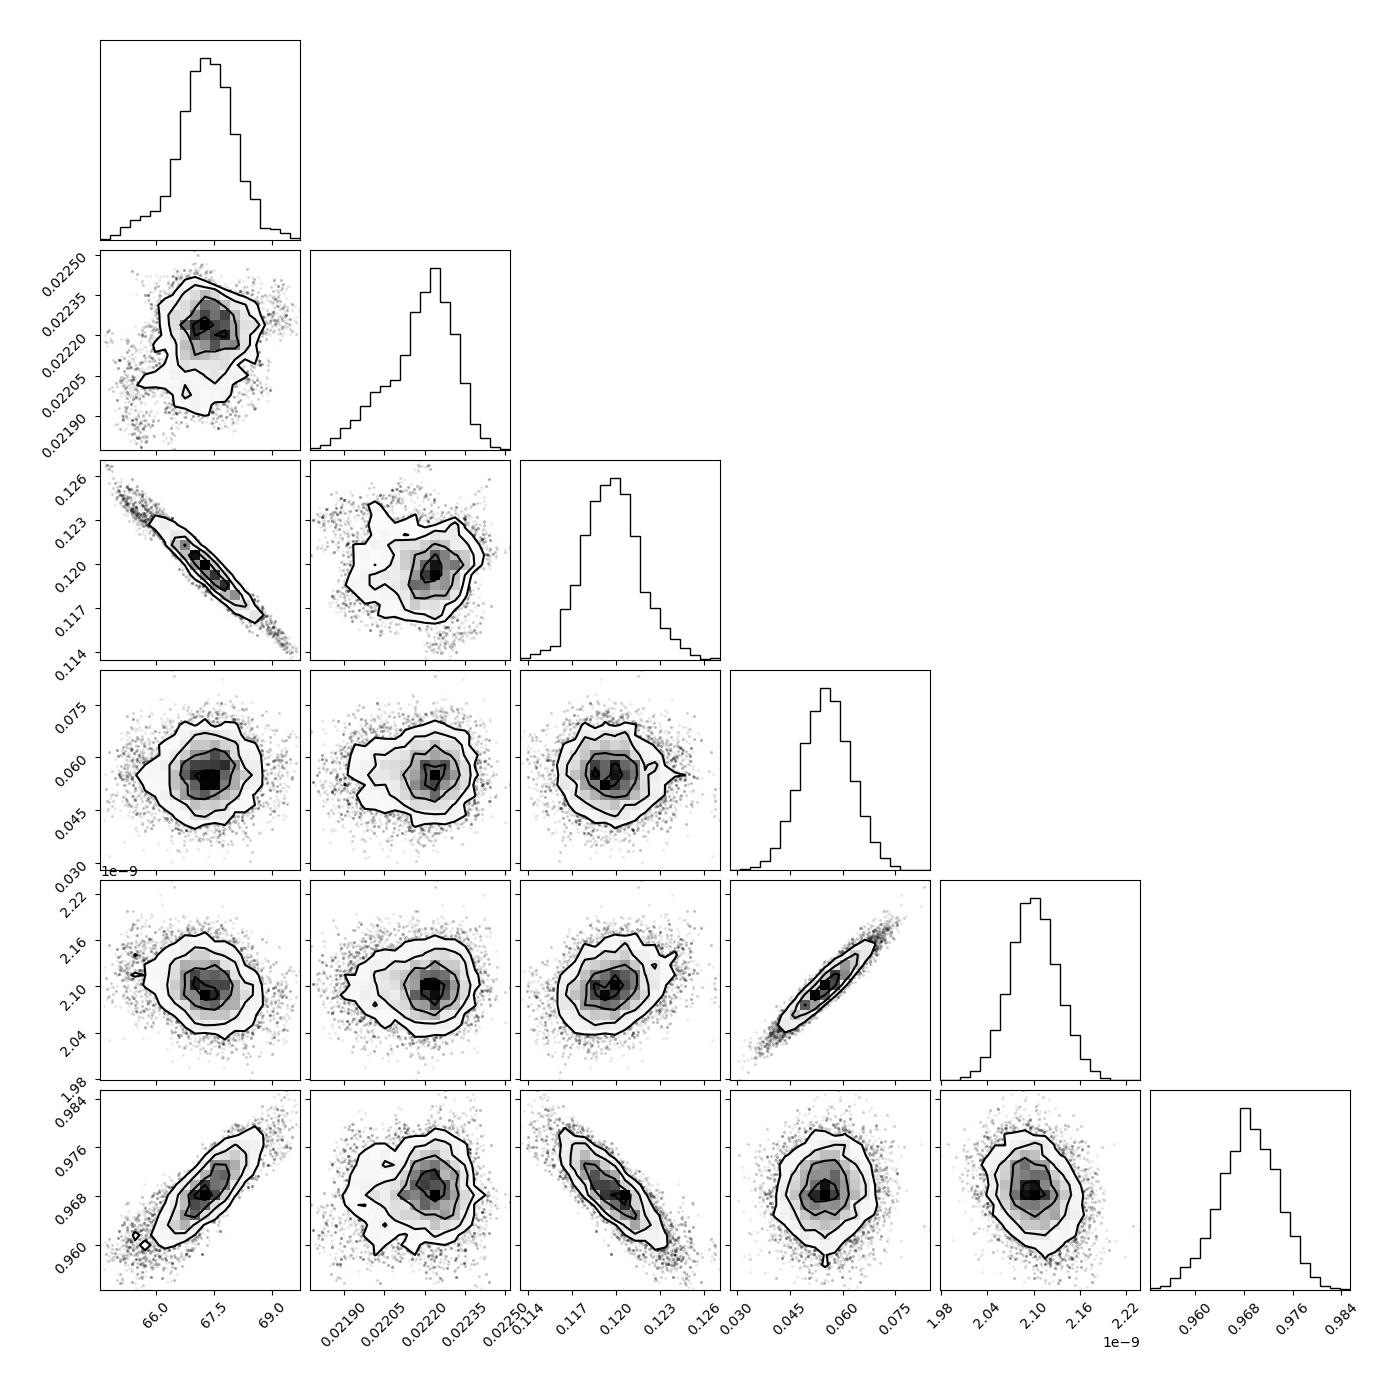
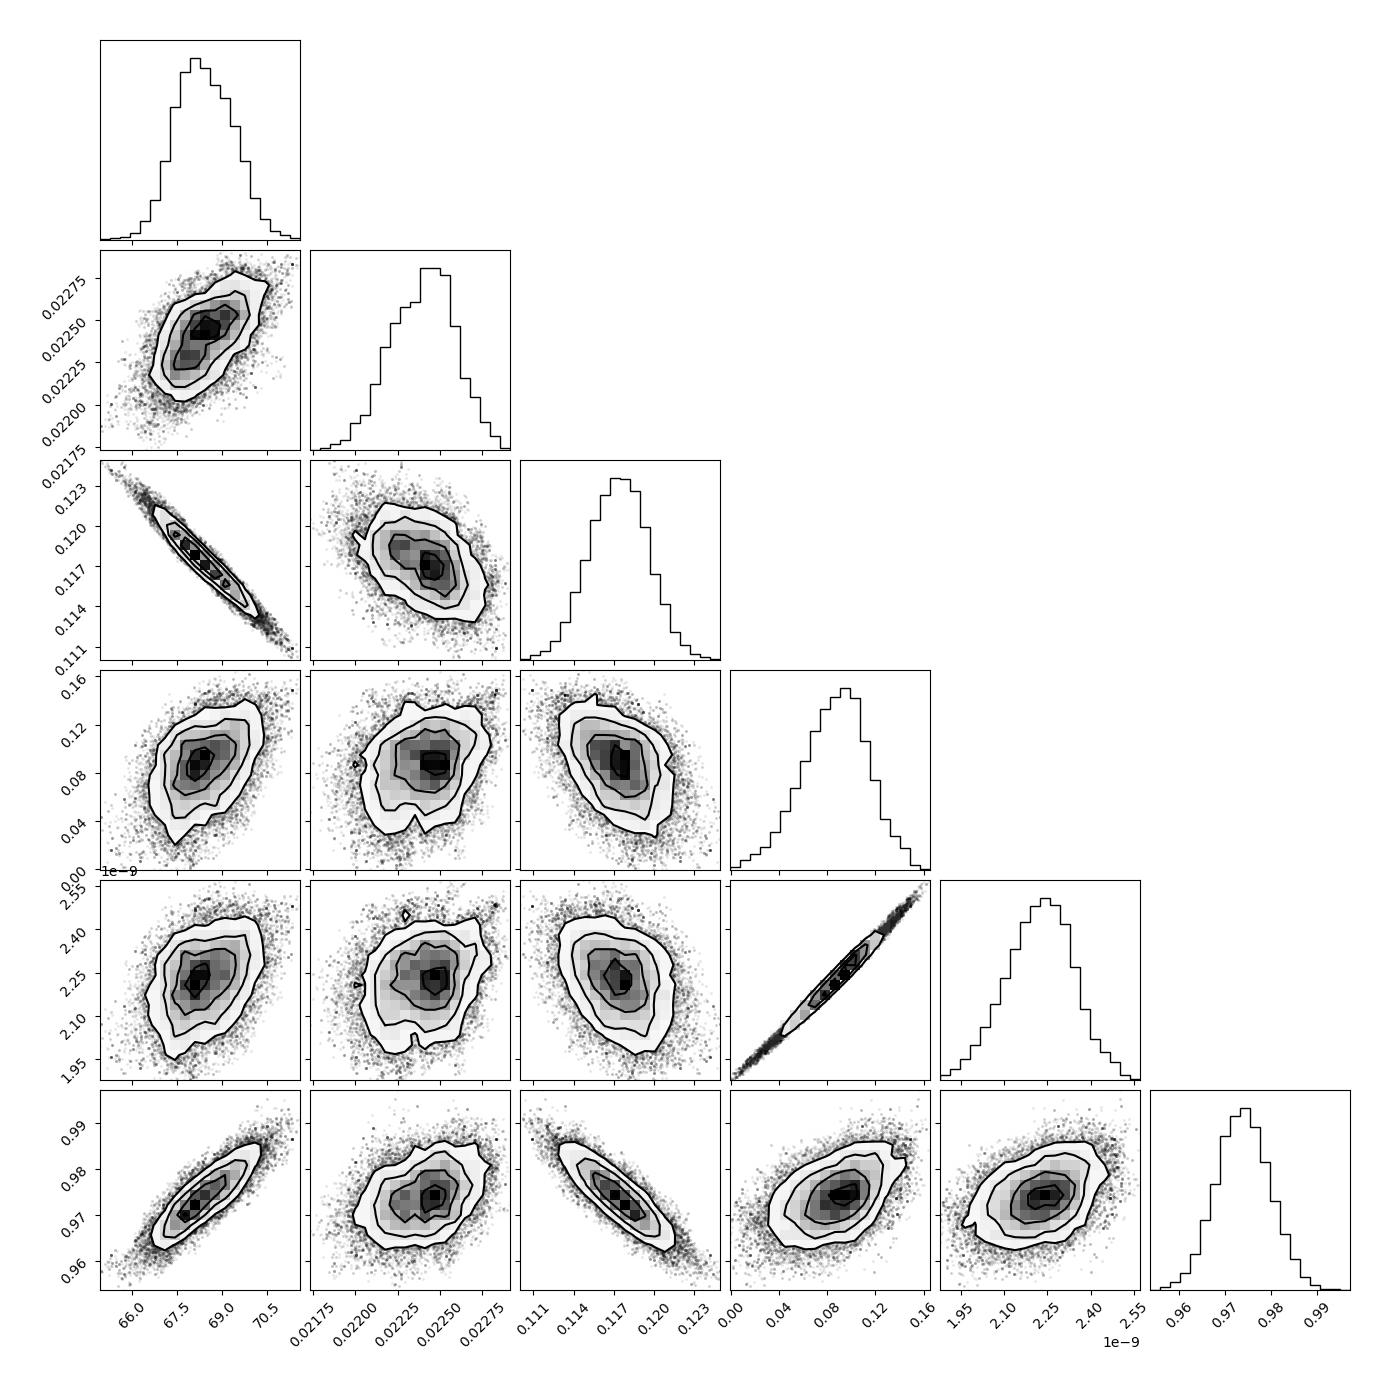
added figures for mcmc power spectrum and runs

diff --git a/Assignment 5/a5q2_newton.py b/Assignment 5/a5q2_newton.py
@@ -17,10 +17,9 @@ planck = np.loadtxt('COM_PowerSpect_CMB-TT-full_R3.01.txt', skiprows=1) # Import
 x_data = planck[:,0]    # X axis data
 y_data = planck[:,1]    # Y axis data
 errs = 0.5 * (planck[:,2] + planck[:,3])    # Errors on data
-
 data_l = len(x_data)    # Length of data
 
-# Finding the length of synthsized data
+# Finding the length of synthesized data
 sim_len = len(get_spectrum(pars))
 
 
@@ -29,9 +28,9 @@ def num_derivs(fun,pars,dp):
     A = np.empty([sim_len, len(pars)])  # Initializing the grad
     for i in range(len(pars)):
         pp = pars.copy()
-        pp[i] = pars[i]+dp[i]   # Parameters on right side
+        pp[i] = pars[i]+dp[i]   # Parameters on right side of derivative
         y_right = fun(pp)       # Right side of derivative
-        pp[i] = pars[i]-dp[i]   # Parameters on left side
+        pp[i] = pars[i]-dp[i]   # Parameters on left side of derivative
         y_left = fun(pp)        # Left side of derivative
         
         A[:,i]=((y_right-y_left)/2/dp[i])   # Computing rows of gradient
@@ -80,10 +79,12 @@ def chisq(y, pred, err):
 # Doing Newton Method
 fun = get_spectrum
 print("Starting Newton Method...\n")
-pars, cov_mat = num_newton(fun, pars, pars*1e-8, x_data, y_data, errs, 1)
+pars, cov_mat = num_newton(fun, pars, pars*1e-8, x_data, y_data, errs, 10)
 np.savetxt("planck_fit_params.txt", pars) # Storing params on cpu
 np.savetxt("planck_fit_cov.txt", cov_mat) # Storing errors on cpu
 
 print("The best fit parameters from Newton are:", pars)
 print("Their error is:", np.sqrt(np.diagonal(cov_mat)))
+chi = chisq(y_data, get_spectrum(pars)[:data_l], errs)
+print("CHI^2 is:", chi)
 

diff --git a/Assignment 5/a5q4_pt2.py b/Assignment 5/a5q4_pt2.py
@@ -13,42 +13,6 @@ chain = np.loadtxt("runs3/compiled_runs.txt")
 # Calculating weights according to gaussian distribution with mean and std given in Q4 
 weights = np.exp(-(((0.054-chain[:, 3])/0.0074)**2)/2)/(0.0074*np.sqrt(2*np.pi))
 
-importance = np.average(chain, weights=weights, axis = 0)
+importance_avg = np.average(chain, weights=weights, axis = 0)
 
-print(importance)
-
-assert(0==1)
-
-# Printing values
-best_param = np.mean(comp_dat[:, :], axis = 0)
-param_std = np.std(comp_dat[:, :], axis = 0)
-
-print("The best fit parameters are:", best_param[0:-1])
-print("Their error is:", param_std[0:-1])
-
-# Calculating optimized Chi^2
-def chisq(y, pred, err):
-    r=y-pred
-    return np.sum(r**2/err**2)
-
-planck = np.loadtxt('COM_PowerSpect_CMB-TT-full_R3.01.txt', skiprows=1) # Importing raw data
-x_data = planck[:,0]    # X axis data
-y_data = planck[:,1]    # Y axis data
-errs = 0.5 * (planck[:,2] + planck[:,3])    # Errors on data
-data_l = len(x_data)    # Length of data
-pred = get_spectrum(best_param)[:data_l]
-cur_chi = chisq(pred, y_data, errs)
-print("Optimized Chi^2 is:", cur_chi)
-
-
-plt.plot(comp_dat[:, 0:-1])
-#plt.loglog(np.abs(np.fft.rfft(comp_dat[:, 0]))**2)
-#plt.plot(np.fft.fftshift(np.fft.irfft(np.abs(np.fft.rfft(comp_dat[:, 0]))**2)))
-#plt.plot(np.fft.irfft(np.fft.fft(comp_dat[10000:, 1])**2))
-#plt.plot(np.fft.irfft(abs(np.fft.fft(nse))**2))
-plt.show()
-
-
-corner.corner(comp_dat[:, 0:-1])
-plt.savefig("figs/a5q4_mcmc_corner_compiled.jpg")
-#plt.show()
+print("The new parameters with importance sampling are:", importance_avg)

diff --git a/Assignment 5/a5q3_compile.py b/Assignment 5/a5q3_compile.py
@@ -45,12 +45,26 @@ cur_chi = chisq(pred, y_data, errs)
 print("Optimized Chi^2 is:", cur_chi)
 
 
-#plt.plot(comp_dat[:, 0:-1])
-#plt.loglog(np.abs(np.fft.rfft(comp_dat[:, 0]))**2)
-plt.plot(np.fft.fftshift(np.fft.irfft(np.abs(np.fft.rfft(comp_dat[:, 0]))**2)))
-#plt.plot(np.fft.irfft(np.fft.fft(comp_dat[10000:, 1])**2))
-#plt.plot(np.fft.irfft(abs(np.fft.fft(nse))**2))
-plt.show()
+
+for i in range(len(best_param)):
+    plt.plot(comp_dat[:, i])
+    plt.title("Parameters over steps")
+    plt.xlabel("Steps")
+    plt.ylabel("Parameter value")
+    plt.savefig("figs/param"+str(i)+"run.jpg")
+    
+
+    plt.clf()
+    plt.loglog(np.abs(np.fft.rfft(comp_dat[:, i]))**2)
+    plt.title("Power Spectrum")
+    plt.xlabel("Frequency Space")
+    plt.ylabel("Intensity")
+    plt.savefig("figs/param"+str(i)+"power.jpg")
+    plt.show()
+    #plt.plot(np.fft.fftshift(np.fft.irfft(np.abs(np.fft.rfft(comp_dat[:, 0]))**2)))
+    #plt.plot(np.fft.irfft(np.fft.fft(comp_dat[10000:, 1])**2))
+    #plt.plot(np.fft.irfft(abs(np.fft.fft(nse))**2))
+
 
 
 corner.corner(comp_dat[:, 0:-1])

diff --git a/Assignment 5/Assignment_5.md b/Assignment 5/Assignment_5.md
@@ -6,9 +6,88 @@ For PHYS-512
 
 ## Question 1
 
+(This question is coded in `a5q1_chi.py`)
+
+If we use the given parameters: 
+
+$$
+\begin{cases}
+H_0 = 69\\
+\Omega_b h^2 = 0.022\\
+\Omega_c h^2 = 0.12\\
+\tau = 0.06\\
+A_s = 2.1e-9\\
+n_s = 0.95
+\end{cases}
+$$
+
+The resulting $\Chi^2$ is `3272.20`. Because of the number of data points and the number of variables, we have the expected value for our $\Chi^2$: $2501 \pm 70$. The obtained value does not fall within the error bounds in fact it is more than 10$\sigma$ away from it. Hence, it is not an acceptable fit.
+
 ## Question 2
 
+(To answer this question, we've used the file `a5q3_newton.py`.)
+
+For this question we simply apply the newton method multiple times. When doing so, we get closer to a minimized $\Chi^2$ value. However, when we get pretty close to the value, for reasons not clear to me, we sometimes get slight increases in the value of the $\Chi^2$. I am not sure if this is a bug or if this is normal. After seeing other people's code, it seems that this is somewhat normal behavior. However, I would not have expected this to happen before seeing it in action.
+
+From this method, we get parameters yielding a $\Chi^2$ of around 2579 or under. Since the parameters jump up and down as we get close to the minimum, we don't have an optimal value, but only values close to it. One of these is 
+
+$$
+\begin{cases}
+H_0 = 68 \pm 1\\
+\Omega_b h^2 = 2.22e-02\pm 3e-04\\
+\Omega_c h^2 = 1.18e-01 \pm 2e-03\\
+\tau = 6e-02\pm5e-02\\
+A_s = 2.1e-09 \pm 2e-10\\
+n_s = 9.7e-01 \pm 1e-02
+\end{cases}
+$$
+
+With $\Chi^2 = $.
+
+We store the optimized values and covariance matrix on the HDD for further use with our MCMC in the next question.
+
 ## Question 3
+
+For this question we can run a run using `a5q3.py`, but instead of running only 1 shot runs, we made a script that allows to "continue" the runs by using the last parameters of the last run. This is done using `a5q3_continuous.py`. We can fuse all those results by joining them together using the script `a5q3_compile.py`. When running this for about 35000 MCMC steps, we obtain the following corner plot:
+
+![a5q3_mcmc_corner_compiled](figs/a5q3_mcmc_corner_compiled.jpg)
+
+Based on this corner plot, it looks like our chain is doing pretty well. There is a clear delimiting of what appears to be the optimal $\Chi^2$ value. No weird patterns are seen. We should not that some of the parameters are very correlated namely $\Omega_c h^2$ and $H_0$. As well as $\tau$ and $A_s$. We see this by seeing how stretch the "ellipse" is. The $\Chi^2$ "bottom" does not appear to behave too weirdly. Aside from important stretchings, it looks more or less elliptical.
+
+To discuss convergence better, we look at the different runs from the simulation.
+
+### $H_0$
+
+![param0run](figs/param0run.jpg)
+![param0power](figs/param0power.jpg)
+
+### $\Omega_b h$
+
+![param1run](figs/param1run.jpg)
+![param1power](figs/param1power.jpg)
+
+### $\Omega_c h$
+
+![param2run](figs/param2run.jpg)
+![param2power](figs/param2power.jpg)
+
+### $\tau$
+
+![param3run](figs/param3run.jpg)
+![param3power](figs/param3power.jpg)
+
+### $A_s$
+
+![param4run](figs/param4run.jpg)
+![param4power](figs/param4power.jpg)
+
+### $n_s$
+
+![param5run](figs/param5run.jpg)
+![param5power](figs/param5power.jpg)
+
+
+
 
 ## Question 4
 
